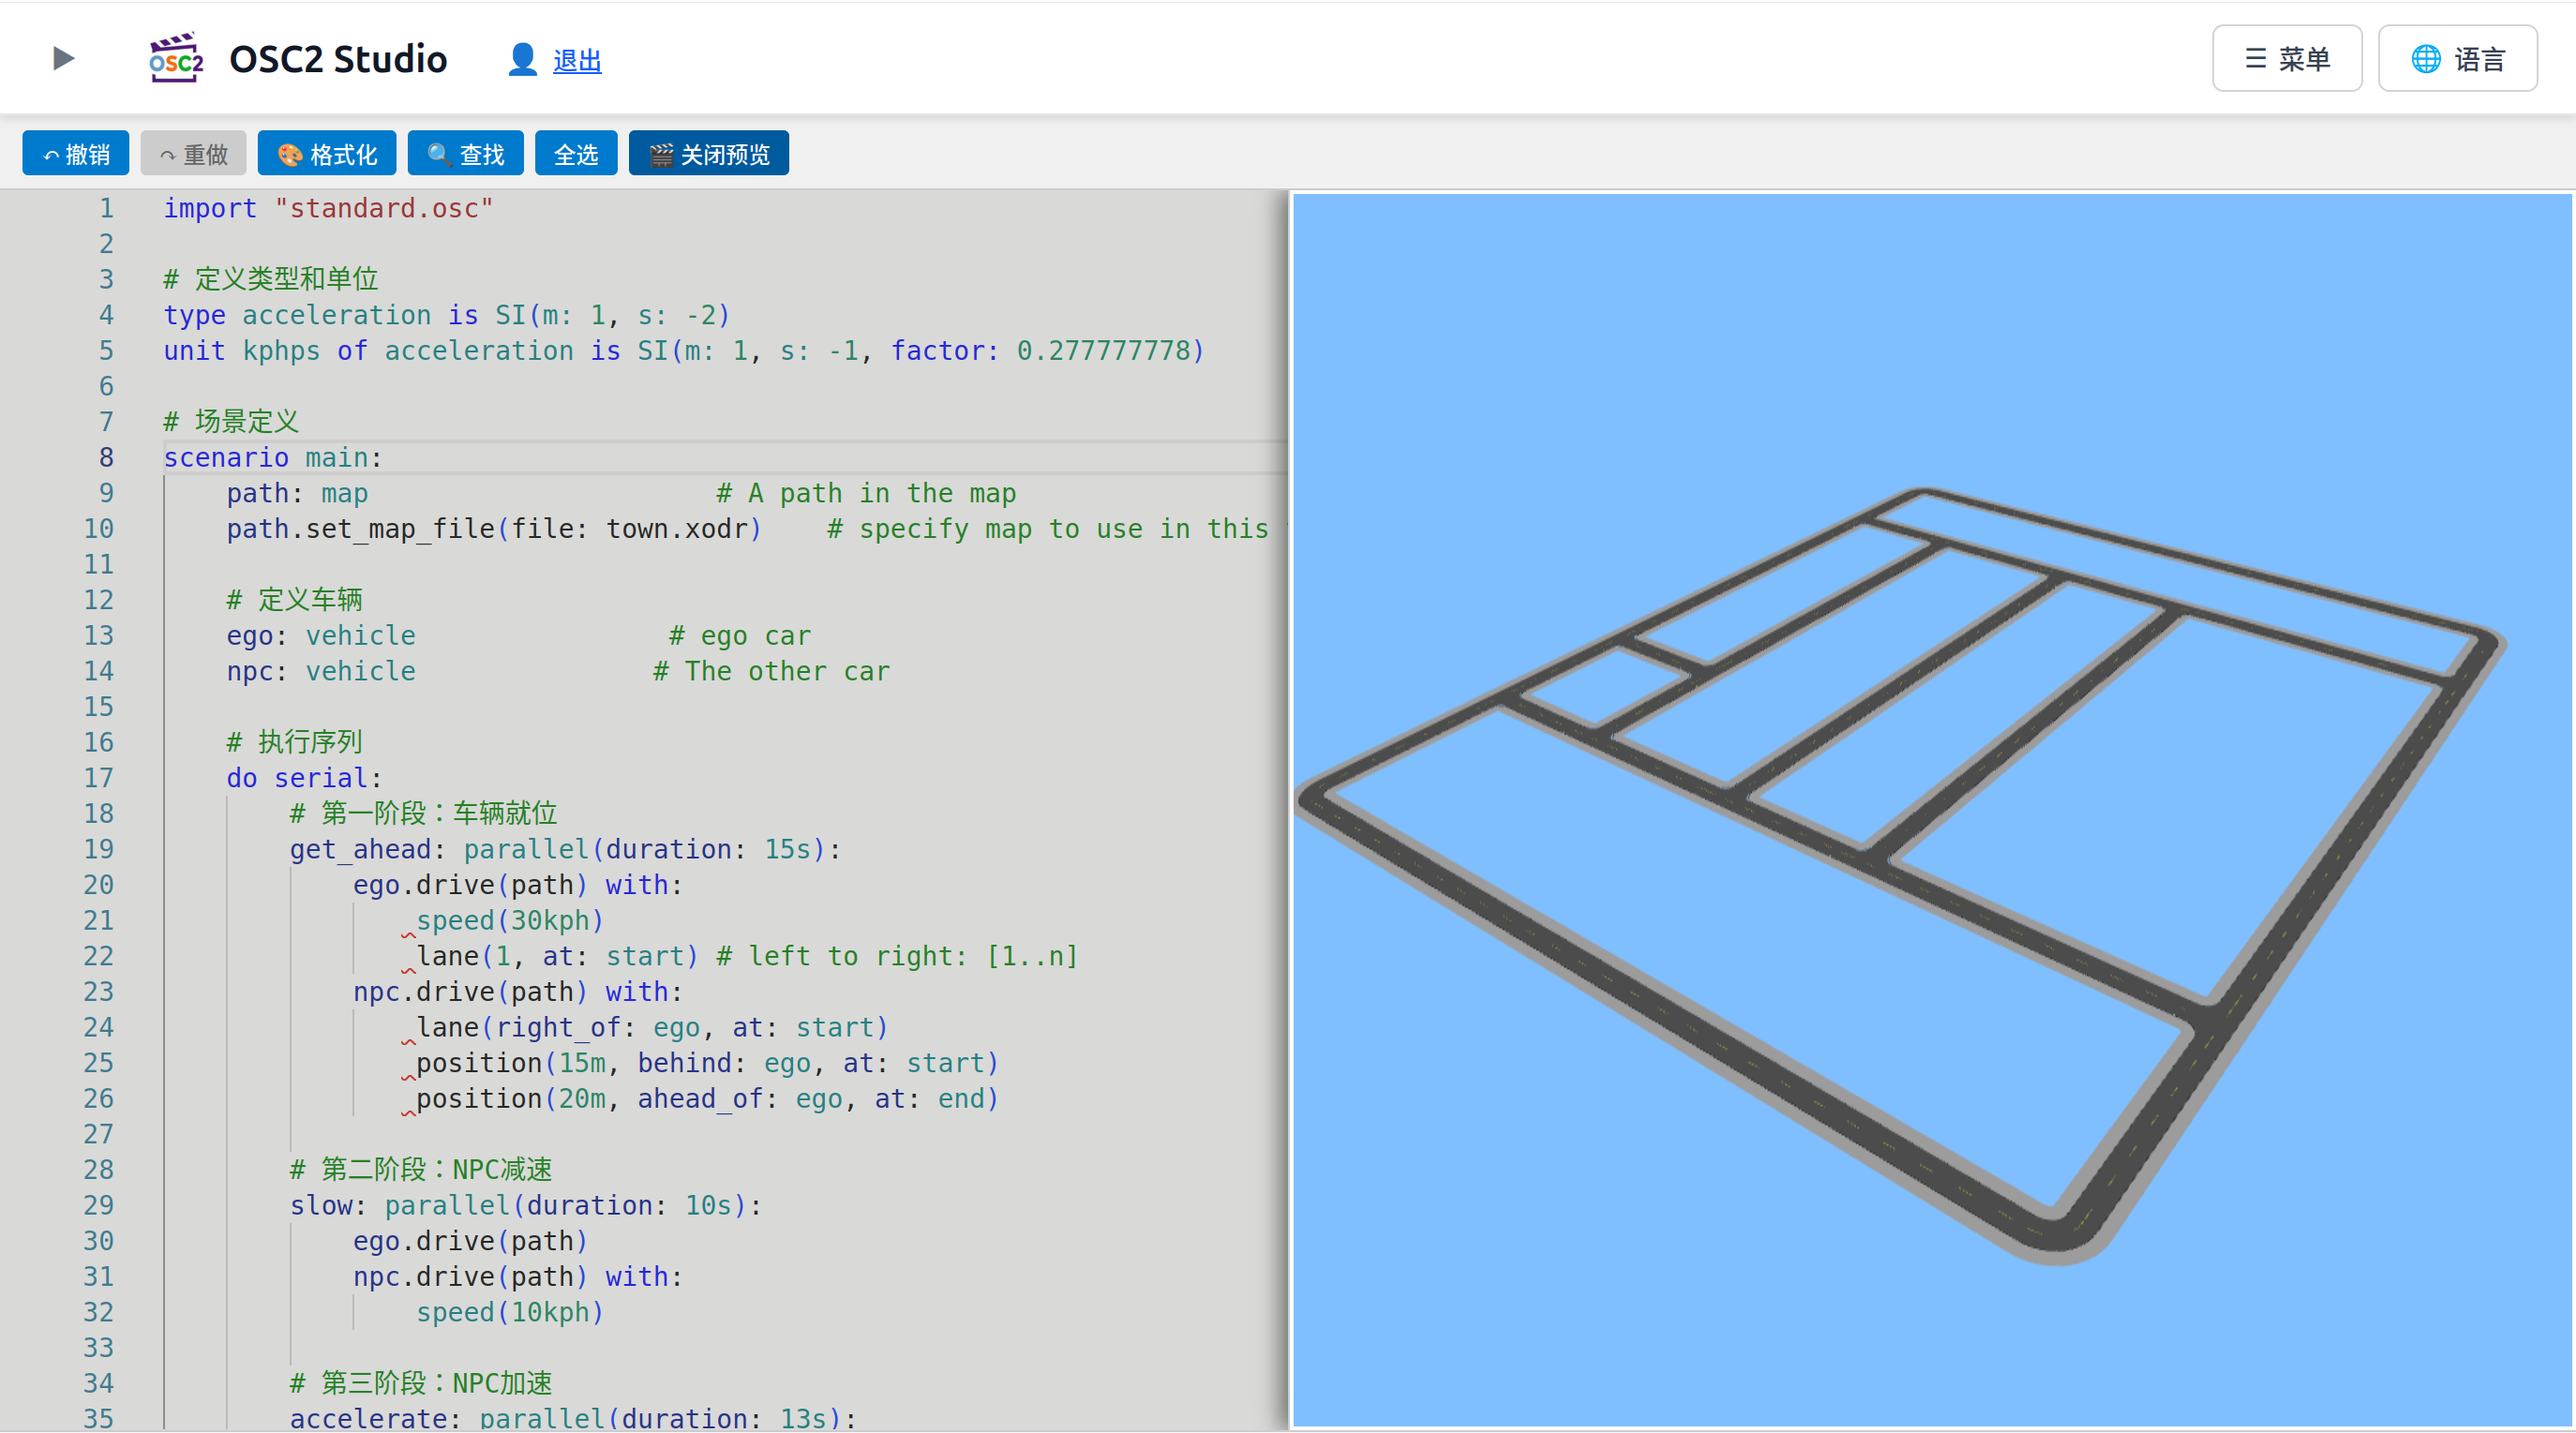
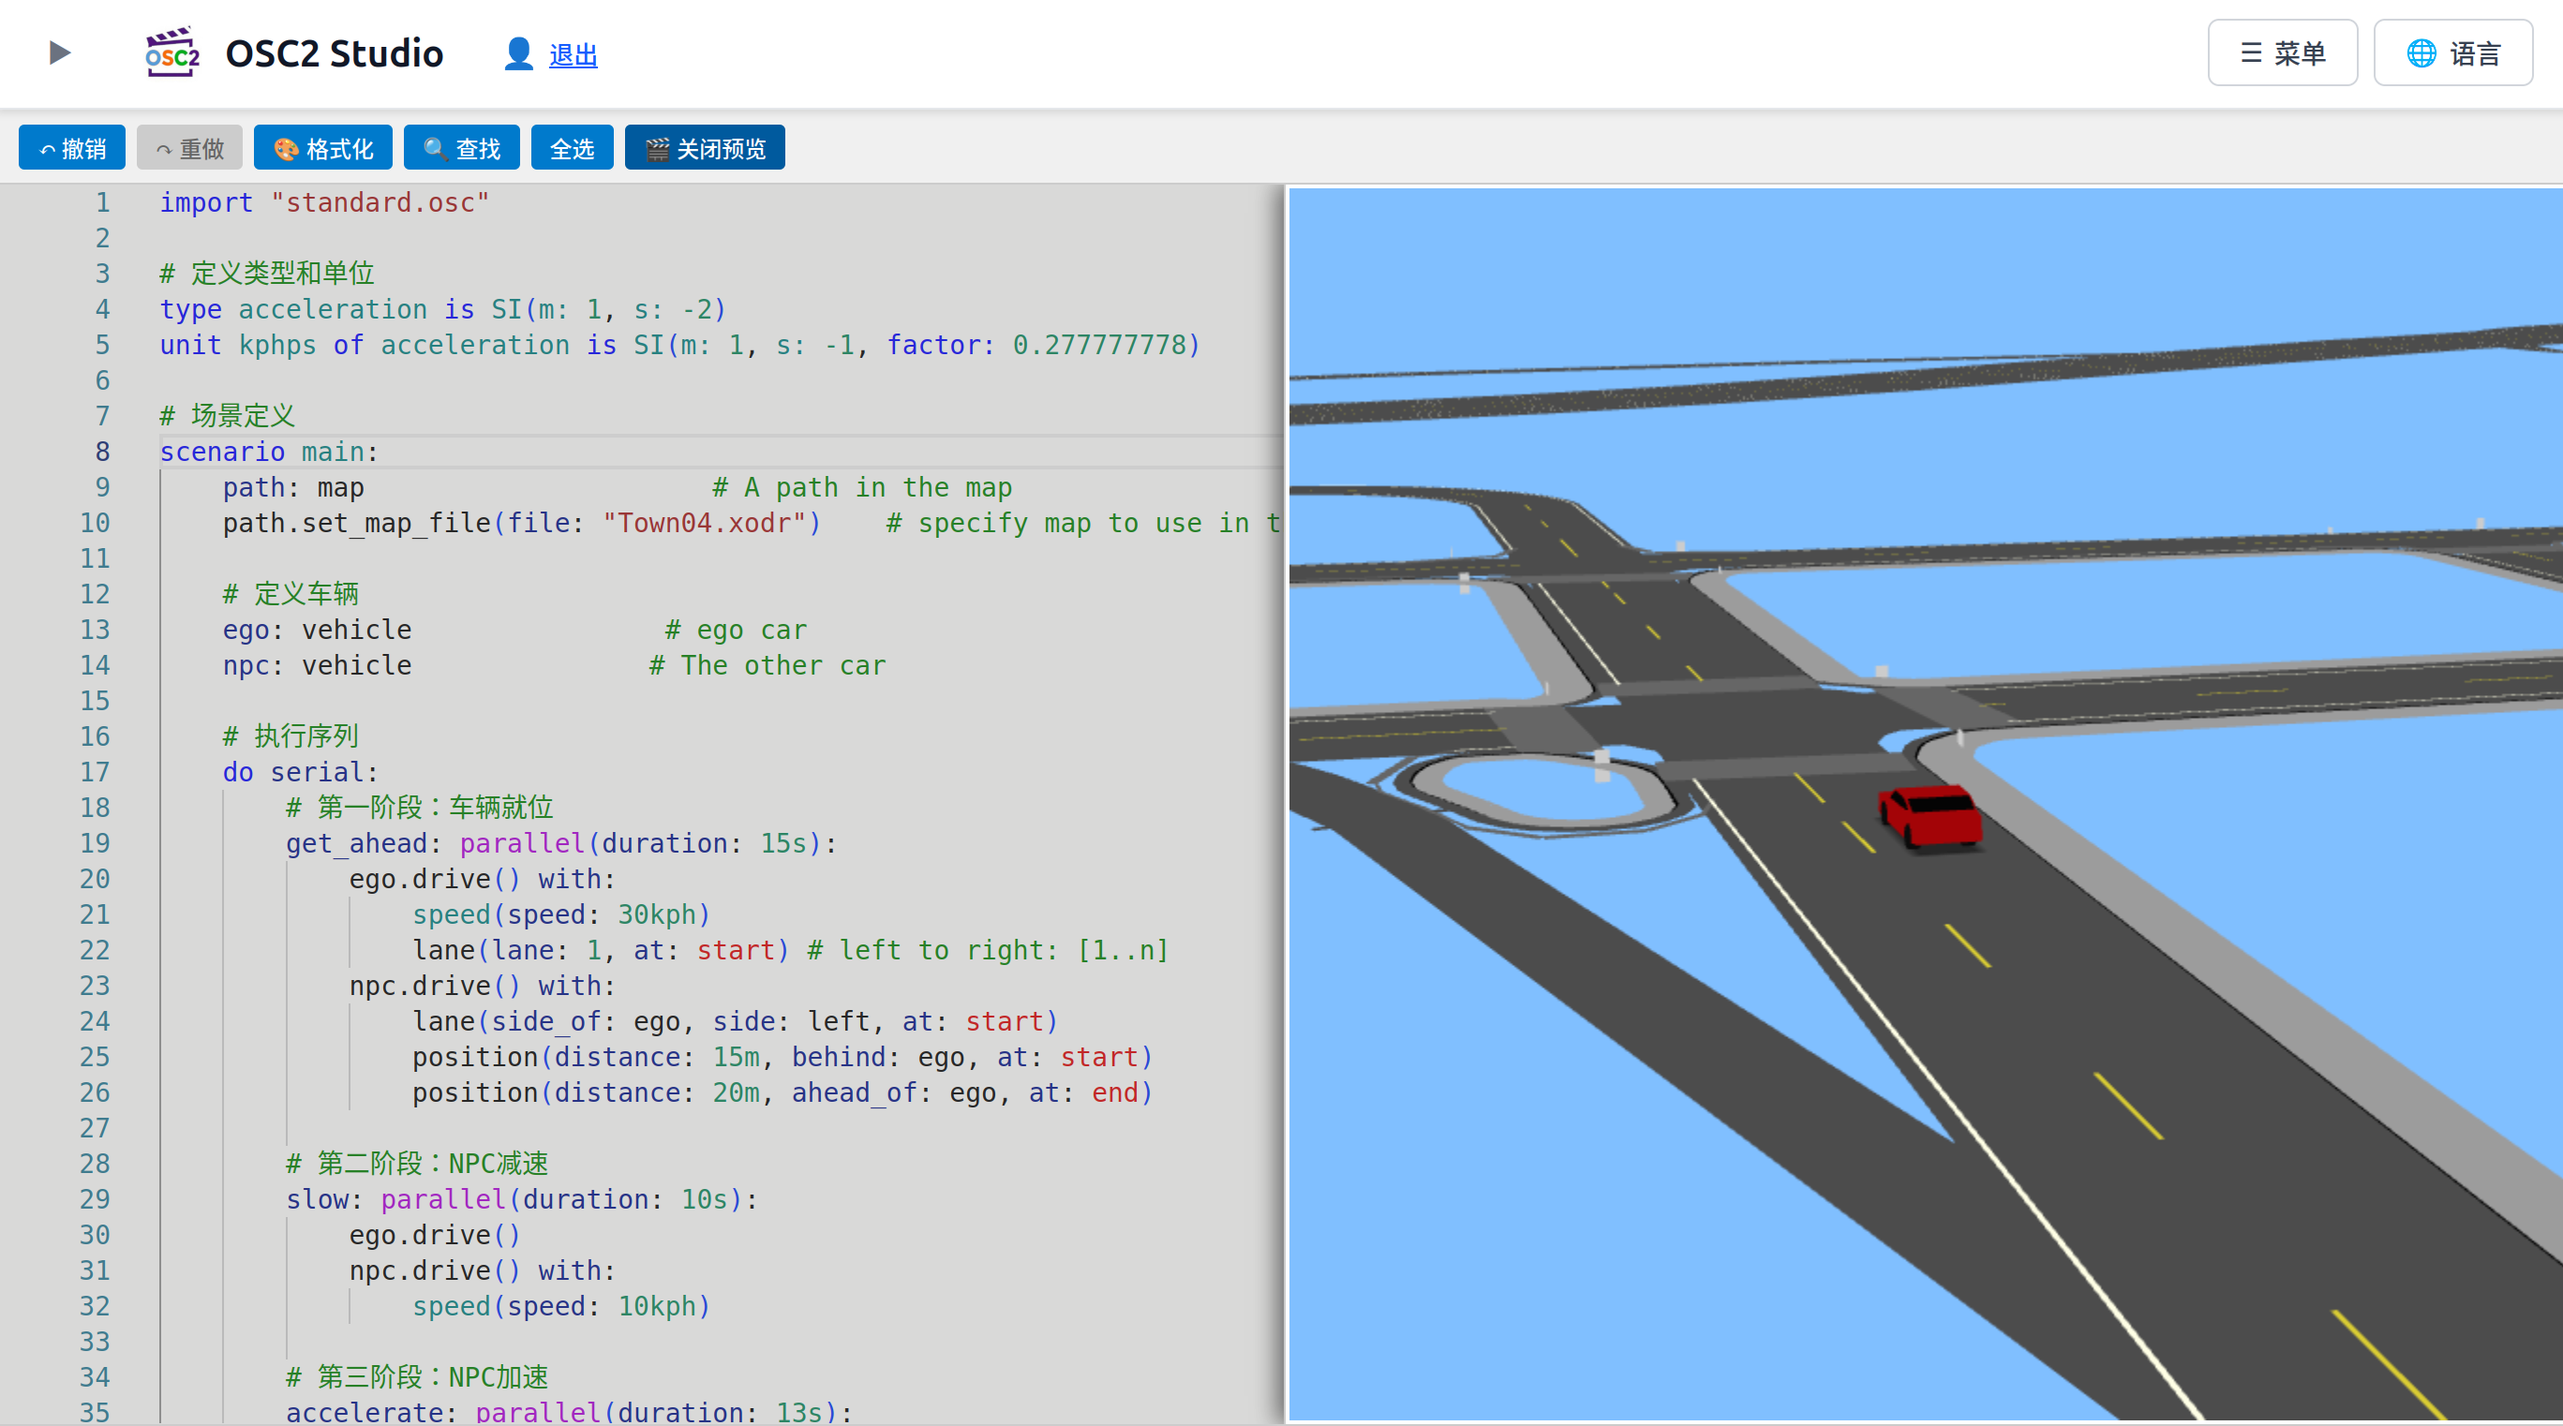
Update README and about page for consistency (#1)
- Add demo-only notice to README, remove redundant access link
- Update 3D preview description to reflect full support
- Note guest preview restriction in both README and about page
- Update screenshot

diff --git a/about.html b/about.html
@@ -977,7 +977,7 @@
           <div class="step-item">
             <div class="step-number">2</div>
             <h4>Log In or Guest</h4>
-            <p>Log in or continue as a guest to start editing</p>
+            <p>Log in or continue as a guest to start editing. <b>Note: guests cannot use the 3D preview; only registered users can.</b></p>
           </div>
           <div class="step-item">
             <div class="step-number">3</div>
@@ -992,7 +992,7 @@
           <div class="step-item">
             <div class="step-number">5</div>
             <h4>3D Preview</h4>
-            <p>Click preview to visualize your scenario</p>
+            <p>After logging in, click preview to visualize your scenario</p>
           </div>
           <div class="step-item">
             <div class="step-number">6</div>

diff --git a/README.md b/README.md
@@ -1,6 +1,6 @@
 # OSC2 Studio: OpenSCENARIO 2 Online Development and Visualization Platform
 
-**Access Link:** [https://osc2studio.online/about.html](https://osc2studio.online)
+> ⚠ **Notice:** This repository is for **demonstration purposes only**. To use the actual OSC2 Studio product, please visit [https://osc2studio.online](https://osc2studio.online).
 
 ![OSC2 Studio](./image.png)
 
@@ -18,8 +18,8 @@ The foundation of our work is the **strict implementation of the official OpenSC
 
 ## Core Features
 
-### 🎬 Scene and Map Visualization (Initial Support, Continuously Improving)
-Transform your code into intuitive 3D scenes directly within the editor — no tool switching required. The current version provides **initial scene visualization capabilities**, allowing you to preview maps and vehicle movements. **Dynamic scene visualization (e.g., real-time playback of motion) is under active development**. More rich visualization features are coming soon.
+### 🎬 3D Scene Preview
+Transform your code into intuitive 3D scenes directly within the editor — no tool switching required. Preview maps, vehicle movements, and dynamic playback of motion in real time, so you can validate your scenario logic at a glance.
 
 ### ✅ Real-time Syntax and Semantic Checking Based on the Official Standard
 Get real-time feedback on syntax and semantic errors. It not only supports precise syntax checking, but also **supports importing standard libraries for complete semantic checking** — the built-in engine can perform in-depth validation of types, units, references, and more, strictly following the official OpenSCENARIO 2 specification to eliminate errors early.
@@ -38,11 +38,11 @@ Supports light/dark theme switching, with the interface available in English, Ch
 
 ## Quick Start
 
-1.  **Open in Browser**: Visit [https://osc2studio.online/about.html](https://osc2studio.online) directly, no installation needed.
+1.  **Open in Browser**: Visit [https://osc2studio.online](https://osc2studio.online) directly, no installation needed.
 2.  **Log In or Try as Guest**: Log in to your account or continue as a guest to start editing immediately. **Please note: Guests cannot use the preview feature; only registered users can access the scene preview functionality.**
 3.  **Write Code**: Write OSC2 code in the professional editor with intelligent suggestions.
 4.  **Real-time Validation**: Syntax and semantic errors are highlighted instantly, with support for importing standard libraries for deep checking.
-5.  **Visual Validation**: After logging in, click preview to see the 3D map effect of your scenario. (Currently supports map visualization; dynamic scene visualization is under development.)
+5.  **Visual Validation**: After logging in, click preview to see the 3D scene and dynamic playback of your scenario.
 6.  **Export for Use**: Download your completed scenario file for your simulation workflow.
 
 We are actively developing more features to support more complex scenario definitions, a richer action library, and deeper visualization interactions. OSC2 Studio is committed to being your capable companion in exploring and creating OpenSCENARIO 2 scenarios.
